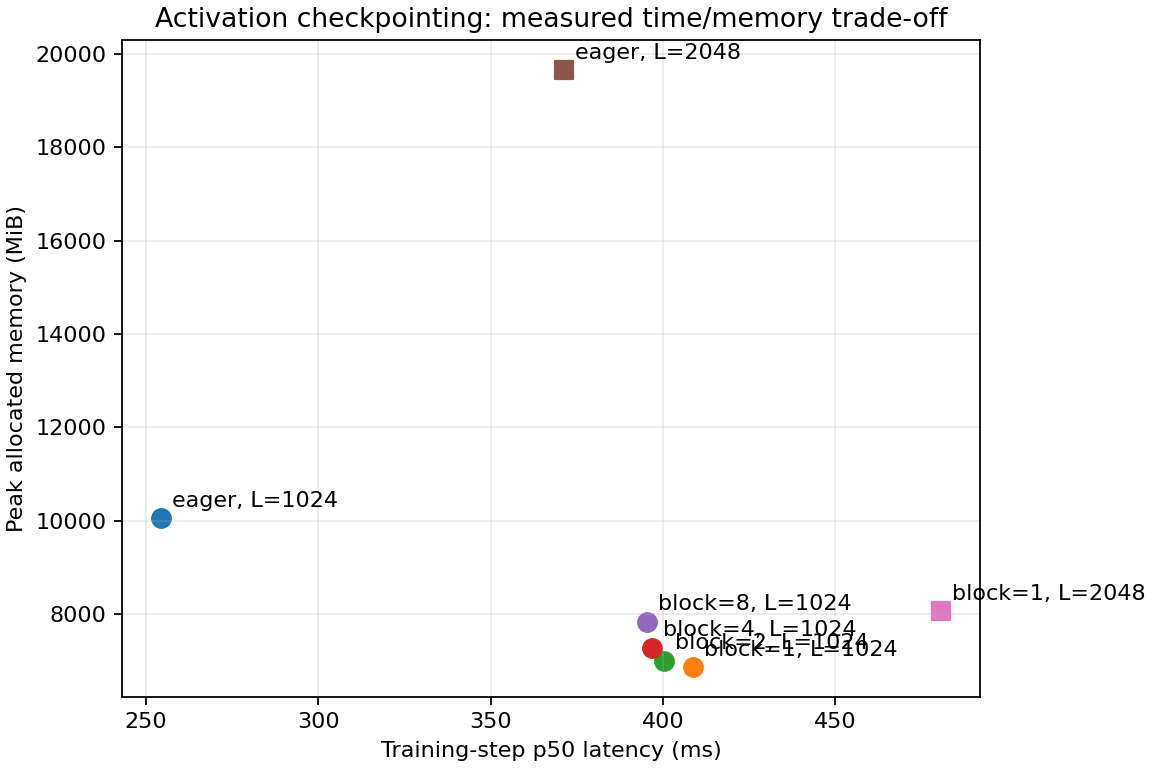
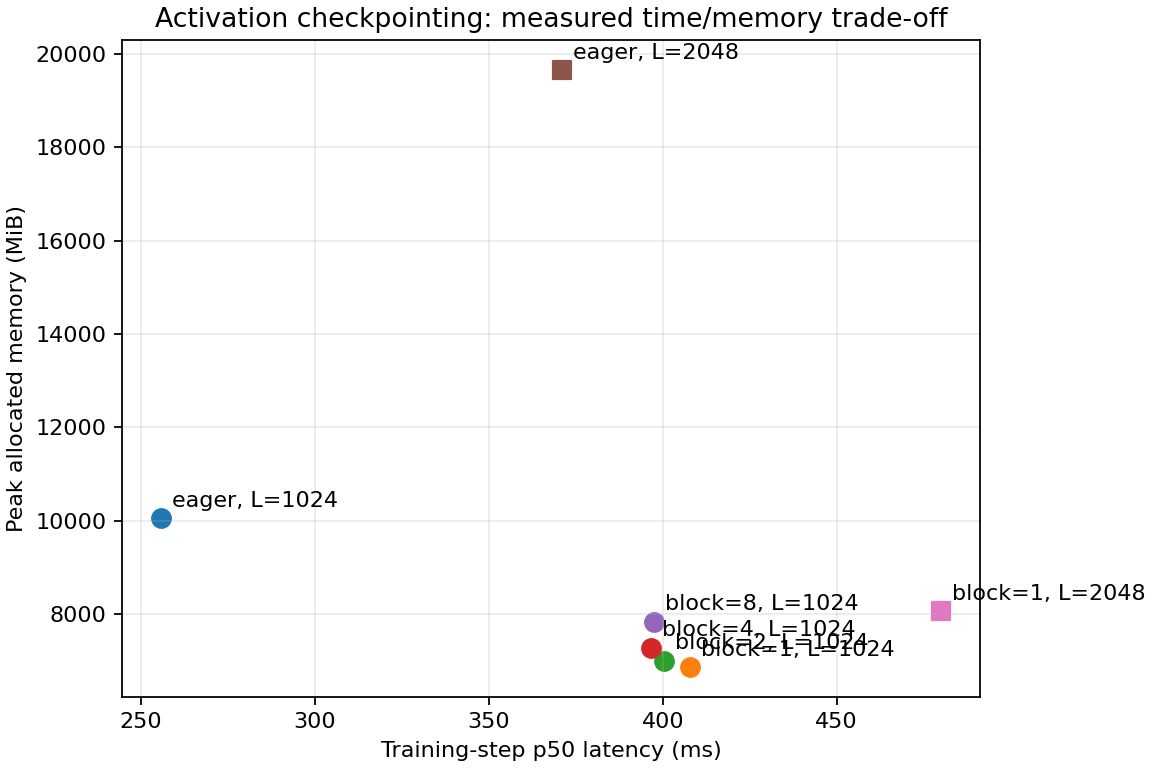
fix(a2-k): sync verified RTX 4090 results and update report

diff --git a/students/钱张枫/assignments/A2-K/README.md b/students/钱张枫/assignments/A2-K/README.md
@@ -194,7 +194,7 @@ trace、依赖或上游仓库元数据。轻量结果和压缩图片由本人确
 
 - 题面版本为 `26.1.4-k-rc.3`，固定 starter commit 为
   `ca8bc81a59b70516f7ebb2da4808daade877c736`；正式结果对应实现 commit 为
-  `dcf93d8c194ce1729f8b6583850294674e010199`。
+  `3bafbada637677a1d93034efbd2aef0a394360a9`，本报告采用 2026-09-07 正式重跑结果。
 - 已完成显式 PyTorch attention、纯 PyTorch tiled FlashAttention reference、学生 Triton
   forward、两条 autograd 路径，以及 checkpoint、correctness、attention、compile、Flash、
   memory 汇总和图表生成脚本。必做项均已完成；可选的自定义 Triton backward 未实现，当前
@@ -290,19 +290,20 @@ step_time_ms_samples,step_time_ms_p50,peak_allocated_mib,peak_reserved_mib,statu
 
 | context | block size | step p50 (ms) | peak allocated (MiB) | peak reserved (MiB) | status |
 | ---: | ---: | ---: | ---: | ---: | --- |
-| 1024 | none | 254.458 | 10065.657 | 10224 | success |
-| 1024 | 1 | 408.674 | 6865.751 | 7022 | success |
-| 1024 | 2 | 400.375 | 7004.470 | 7154 | success |
-| 1024 | 4 | 396.734 | 7283.313 | 7368 | success |
-| 1024 | 8 | 395.257 | 7839.126 | 7962 | success |
-| 2048 | none | 371.245 | 19660.513 | 20164 | success |
-| 2048 | 1 | 480.577 | 8063.802 | 8414 | success |
+| 1024 | none | 255.821 | 10065.657 | 10224 | success |
+| 1024 | 1 | 407.693 | 6865.751 | 7022 | success |
+| 1024 | 2 | 400.394 | 7004.470 | 7154 | success |
+| 1024 | 4 | 396.570 | 7283.313 | 7368 | success |
+| 1024 | 8 | 397.452 | 7839.126 | 7962 | success |
+| 2048 | none | 371.078 | 19660.513 | 20164 | success |
+| 2048 | 1 | 479.885 | 8063.802 | 8414 | success |
 
 在 context 1024 下，block size 1 相比无 checkpoint 将 reserved peak 降低 `31.3%`，代价
-是 step p50 增至 `1.61x`。在 2048 边界下，block size 1 将 reserved peak 降低 `58.3%`，
+是 step p50 增至 `1.59x`。在 2048 边界下，block size 1 将 reserved peak 降低 `58.3%`，
 step p50 为 `1.29x`。最佳 block size 同时受边界 activation 数量、段内临时 activation、
 kernel 调度和重计算开销影响，不能只按 checkpoint 数量判断。7 行均在 allocator guard 内
-成功，未删除或改写边界行。
+成功，未删除或改写边界行。每行均记录实际 `allocator_fraction=0.9768130292889415`
+及 `allocator_limit_mib=23552`，可与运行元数据逐行核验。
 
 ![Checkpoint 时间与显存权衡](assets/checkpoint_tradeoff.png)
 
@@ -330,7 +331,7 @@ kernel 调度和重计算开销影响，不能只按 checkpoint 数量判断。7
 `scaled_dot_product_attention` 或第三方 fused attention。完整 18 行见
 [`results/attention_baseline.csv`](results/attention_baseline.csv)。在 batch 1、causal、BF16、
 sequence 8192、head dim 128 下，forward/backward/forward-backward p50 分别为
-`2.680 / 4.242 / 6.846 ms`，reserved peak 分别为 `1066 / 1578 / 1578 MiB`。
+`2.678 / 4.241 / 6.845 ms`，reserved peak 分别为 `1066 / 1578 / 1578 MiB`。
 
 ### 6.2 `torch.compile` 对照
 
@@ -351,20 +352,22 @@ batch size 1、context length 512、BF16 上比较 eager/compiled 的 forward、
 
 完整 24 行对照见 [`results/compile_comparison.csv`](results/compile_comparison.csv)。在上述
 8192/128 配置下，compiled forward/backward/forward-backward p50 为
-`0.671 / 1.122 / 1.719 ms`，相对 eager 的 steady-state speedup 为
-`4.00x / 3.78x / 3.98x`。
+`0.671 / 1.122 / 1.720 ms`，相对同一 compile CSV 中 eager 的 steady-state speedup 为
+`3.99x / 3.78x / 3.98x`。
 
 Stanford small 模型、batch 1、context 512 的结果如下：
 
 | phase | eager p50 (ms) | compiled p50 (ms) | steady speedup | compiled cold start (ms) |
 | --- | ---: | ---: | ---: | ---: |
-| forward | 42.143 | 10.966 | 3.84x | 27254.993 |
-| forward-backward | 108.703 | 30.294 | 3.59x | 12237.221 |
-| training step | 110.992 | 35.397 | 3.14x | 73.724 |
+| forward | 41.966 | 11.002 | 3.81x | 27214.737 |
+| forward-backward | 108.274 | 30.412 | 3.56x | 12333.797 |
+| training step | 111.068 | 40.241 | 2.76x | 67.594 |
 
 compiled steady state 有稳定收益，但首次 shape/backend 编译需要额外 wall time，因此 cold
-start 未混入 steady latency。512 attention forward 的 compiled p50 为 `0.130 ms`，eager
-为 `0.604 ms`，steady-state 加速约 `4.65x`，但首次 compiled forward 仍需约 `8.60 s`。
+start 未混入 steady latency。512 attention forward 的 compiled p50 为 `0.129 ms`，eager
+为 `0.569 ms`，steady-state 加速约 `4.41x`，但首次 compiled forward 仍需约 `4.48 s`。
+small 模型 compiled training step 的 p20/p80 为 `32.547 / 43.340 ms`，正式测量仅 8 个
+样本，存在明显波动；`2.76x` 是本次 p50 比值，不代表所有样本都具有相同加速幅度。
 实际部署还需要考虑 shape specialization、graph break 和缓存复用；本次固定 shape 的热态
 结果不能直接外推到动态 shape 工作负载。
 
@@ -443,7 +446,7 @@ uv run pytest tests/test_attention.py -v
 PyTorch 与 Triton 两个 `autograd.Function` 均使用纯 PyTorch tiled attention 重计算概率并
 返回 `dQ`、`dK`、`dV`；Triton 路径只把学生 kernel 用于 forward，没有把重计算 backward
 描述为 Triton 性能优化。该 backward 在 sequence 8192 的 backward/forward-backward 约为
-`10.42–10.61 s`，在 16384 边界约为 `42.71–43.31 s`，但 reserved peak 最高仅
+`10.51–10.75 s`，在 16384 边界约为 `43.20–44.77 s`，但 reserved peak 最高仅
 `2782 MiB`。结果反映的是以显著重计算时间换取低显存，而不是反向加速。
 
 ## 9. 任务五：正确性与性能矩阵
@@ -502,9 +505,9 @@ status，以及 Triton 的 query/key tile、num warps 和 num stages。结果写
 | sequence | head dim | eager p50 (ms) | compiled p50 (ms) | Triton p50 (ms) | Triton speedup vs eager |
 | ---: | ---: | ---: | ---: | ---: | ---: |
 | 8192 | 64 | 2.652 | 0.646 | 0.242 | 10.97x |
-| 8192 | 128 | 2.679 | 0.671 | 0.481 | 5.57x |
-| 16384 | 64 | 10.709 | - | 0.500 | 21.43x |
-| 16384 | 128 | 10.744 | - | 1.230 | 8.74x |
+| 8192 | 128 | 2.679 | 0.671 | 0.482 | 5.56x |
+| 16384 | 64 | 10.707 | - | 0.499 | 21.47x |
+| 16384 | 128 | 10.744 | - | 1.229 | 8.74x |
 
 ![FlashAttention latency 与 speedup](assets/flash_latency_speedup.png)
 
@@ -512,7 +515,7 @@ status，以及 Triton 的 query/key tile、num warps 和 num stages。结果写
 重计算 backward 描述为性能优化。三个性能 CSV 的全部成功行都记录非空
 `measurement_sample_count` 和由实际 timing 列表求和得到的 `measurement_duration_ms`，没有
 把目标 `rep=300 ms` 当作固定实测时长。例如 16384/head dim 64 Triton backward 记录 1 个
-样本、`43297.1992 ms`，head dim 128 forward-backward 记录 1 个样本、`42711.4609 ms`。
+样本、`43707.4531 ms`，head dim 128 forward-backward 记录 1 个样本、`43197.9258 ms`。
 
 ### 9.4 低显存开发诊断（`formal=false`）
 
@@ -579,9 +582,11 @@ notebook 导出。报告必须包含：
 
 [`results/memory_evidence.json`](results/memory_evidence.json) 汇总 112 条正式观测，最高
 `peak_allocated_mib=19660.513`、`peak_reserved_mib=20164`，并记录
-`within_allocator_guard=true`、`within_24gib=true`。环境、seed、命令和配置见
+`allocator_evidence_complete=true`、`missing_allocator_evidence_count=0`、
+`within_allocator_guard=true`、`within_24gib=true`。汇总会拒绝缺少逐行 allocator 字段的
+正式成功记录，不会通过顶层声明掩盖缺失证据。环境、seed、命令和配置见
 [`results/run_metadata.json`](results/run_metadata.json)。8 个结果文件和两张图片共
-`320382 bytes`，约 `0.31 MiB`，低于 2 MiB 限制；公开候选文件未包含主机名、用户名、内部
+`323904 bytes`，约 `0.31 MiB`，低于 2 MiB 限制；公开候选文件未包含主机名、用户名、内部
 路径、GPU UUID、进程列表或 Slurm 标识。
 
 ### 10.2 最小复现命令
@@ -599,9 +604,7 @@ python -m student_scripts.a2k.benchmark_flash --formal
 
 - 飞书补充实验文档：https://fudan-nlp.feishu.cn/wiki/FXJwwSYWni0CdgkosgHcEjWAncd?from=from_copylink。
 - 必做实验和报告内容已完成；可选的自定义 Triton backward 未实现。
-- 将本 README 复制到 SummerQuest 并补充飞书链接后，仍需运行
-  `python3 scripts/validate_repo.py`，以目标仓库的最终输出核验目录、链接、文件类型和 staged
-  内容。
+- 已同步正式重跑结果及图片；提交前仍应核对 staged diff，确保提交范围仅为本人的 A2-K。
 
 ## 11. 文件与附件限制
 
@@ -653,7 +656,7 @@ feat(a2-k): submit 钱张枫 memory and kernels report
 
 以下状态按正式结果源目录与现有 SummerQuest 个人目录核验。目标目录中的 8 个结果文件和
 2 张图片与正式源文件 SHA-256 完全一致；官方校验器未报告本 A2-K 的附件类型、大小或禁止
-文件问题。替换 README 并补充飞书链接后，提交前仍需重新运行校验器和检查 staged diff。
+文件问题。提交前仍需检查 staged diff；仓库其他作业的既有校验错误不计为本 A2-K 通过。
 
 - [x] 固定 starter commit 正确，工作仓库位于 `../assignment2-systems`。
 - [x] 所有正式结果来自单张 RTX 4090 24GB，开跑前可用显存不少于 22 GiB。
@@ -667,6 +670,8 @@ feat(a2-k): submit 钱张枫 memory and kernels report
 - [x] 核心矩阵与 16384 边界矩阵使用同硬件、同输入、同 dtype、同 causal 和同测量边界。
 - [x] README 中每个关键数字都能回到 `results/` 或明确命令。
 - [x] `memory_evidence.json` 证明 peak reserved 不超过 23552 MiB，并如实记录 24 GiB 判定。
+- [x] 7 条 checkpoint 正式成功记录均保存实际 allocator fraction 和 23552 MiB 上限；汇总证据完整、缺失数为 0。
+- [x] 所有结果 CSV 使用 LF；相对复审基准执行 `git diff --check` 无输出。
 - [x] 至少两张图片被 README 引用，文件类型和大小通过校验。
 - [x] 未提交缓存、binary、trace、权重、数据、压缩包、内部信息或凭据。
 
